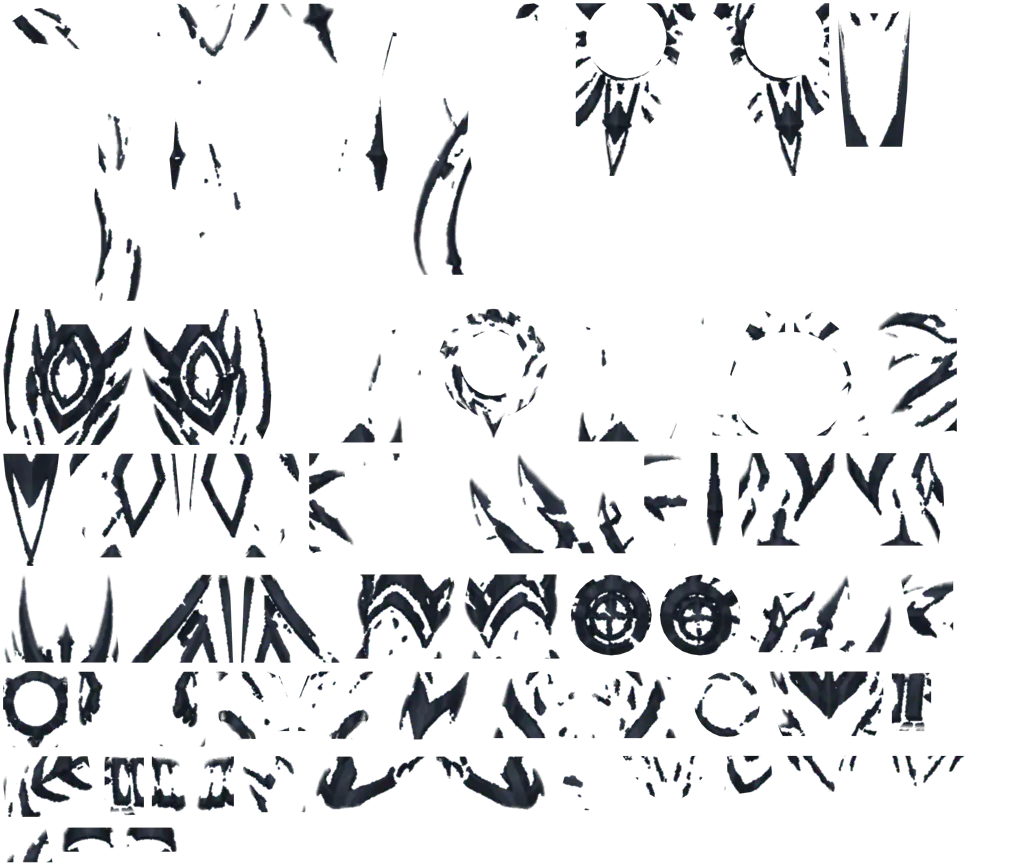
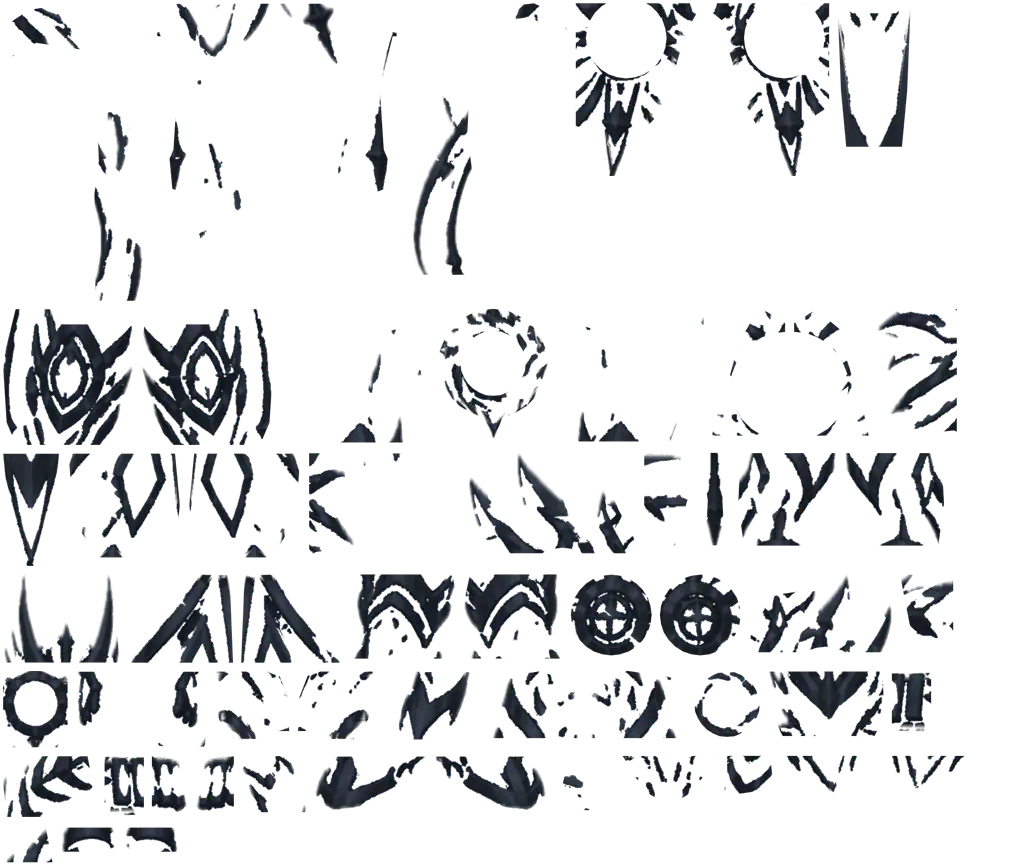
Rexonance: the bare body's own detail; no yellow rim before the gold forms; MAX / ULTRA cut like the figure (owner)
- The undersuit (the body before the armour) drops the hex mesh for a
  muscle-fibre grain that runs the way each muscle does (pecs to the
  armpit, deltoids, the arms, the abdomen's columns and bands, the thighs'
  diagonal, the calves), with a soft volume and fainter seams; its face is
  only its lights (the cyan and pink V).
- The raw gold mask takes every warm gold-toned pixel within 4 px of a trim
  and stays solid to its edge: a seated arm or leg no longer shows a thin
  yellow rim before its gold forms (crystals stay clear, pinned).
- MAX and ULTRA take the figure's own cut-out as their silhouette (no dark
  rim of the black ground), and a scroll at rest during a form change keeps
  no transient squares.

diff --git a/src/lib/rexonance-suit-gold.ts b/src/lib/rexonance-suit-gold.ts
@@ -1,102 +1,102 @@
 // Generated by scripts/build-rexonance-suit.mjs from
 // design/rexonance-suit/rexonance-full-20261010.jpg — do not edit by hand.
 
-/** rx17: the gold nanite cell, in delivery px (10067 cells in all). */
+/** rx17: the gold nanite cell, in delivery px (10520 cells in all). */
 export const REXONANCE_SUIT_GOLD_CELL = 4;
 /** Each plate's gold cells (by id; plates without gold are absent): the
  * REXONANCE_SUIT_GOLD_CELL px squares of its box (REXONANCE_SUIT_PIECES)
  * that its trims touch, row-major, LSB-first bitmask, base64. */
 export const REXONANCE_SUIT_GOLD_CELLS: Readonly<Record<string, string>> = {
   "helmet-crest":
[2 lines of base64/hex data omitted]
   "helmet-visor":
[1 lines of base64/hex data omitted]
-  "helmet-jaw": "RgAEnAcMAA8bADQGAGAsAIBZAASbBEAEAYABAwADBgAGBAAAAAAAAAAAAAA=",
-  "core-disc": "AACAfwC/AwAcMOBgAIcAHAIABAAYAGAAmAFwDuBxwIEnAfwD4A8ADAA=",
[1 lines of base64/hex data omitted]
+  "helmet-jaw": "RgAEnAcMAA8bADQGAGAsAIBdAASbBGAmAcABAwADBwAGDAAAAAAAAAAAAAA=",
+  "core-disc": "AACAfwC/A4AcMOBgAIcAHAMABAAYAGAAmAFwDuBxwIGnAfwD4B8ADAA=",
   "core-swirl":
[1 lines of base64/hex data omitted]
-  "belt-l2": "AIA//vEHOUAABgKQgQz+/e9/f3EAAA==",
-  "belt-l1": "APA+/+d//scf/Md//Ocf/3Ef9/Ef+IEZAAAA",
[1 lines of base64/hex data omitted]
-  "belt-r1": "AOB//ucf3sEdnuERnME9+IN/+Md//AAcAAA=",
-  "belt-r2": "APjBP/5gAxMYgAAGcIF//vMf/wADAAAA",
-  "tasset-pendant": "GDBgwIEBAw4ePHjw4MGDDx8+fHjw4IEDBwYMAAA=",
[2 lines of base64/hex data omitted]
+  "belt-l2": "AIA//vEHOcgABjKQgQz+/e9/f3EAAA==",
+  "belt-l1": "APA+/+d//scf/Md//Ocf//Ef//Ef+IEZAAAA",
[1 lines of base64/hex data omitted]
+  "belt-r1": "AOB//ud/3sEdnuER3ME9+IN/+Md//AAcAAA=",
+  "belt-r2": "APjBP/5hAxMYgAAmcMN//vM//wADAAAA",
+  "tasset-pendant": "GDBgwIEDAw4ePHjw4MGDDx8+fHjw4IEDBwYMAAA=",
[1 lines of base64/hex data omitted]
   "tasset-top":
[2 lines of base64/hex data omitted]
   "shoulder-disc-l":
[2 lines of base64/hex data omitted]
   "shoulder-upper-l":
[2 lines of base64/hex data omitted]
   "shoulder-outer-l":
[2 lines of base64/hex data omitted]
   "shoulder-lower-l":
[2 lines of base64/hex data omitted]
   "shoulder-disc-r":
[2 lines of base64/hex data omitted]
   "shoulder-upper-r":
[4 lines of base64/hex data omitted]
   "shoulder-lower-r":
[2 lines of base64/hex data omitted]
   "arm-upper-l":
[2 lines of base64/hex data omitted]
   "arm-bracer-l":
[1 lines of base64/hex data omitted]
-  "arm-cuff-l": "AAD8P/4//j8+OA4gHgAAAA==",
-  "arm-fist-l": "AAB8APAA8ANgD8AOABwAPwB+APwA+AHwAeABwAMAAQAAAAAAAAAAAAAAAAAA",
[1 lines of base64/hex data omitted]
+  "arm-cuff-l": "AAD8P/4//j8+OB4wPgAAAA==",
+  "arm-fist-l": "AAB8APAA8APgD8AegB8APwB+APwA+AHwAeABwAMAAQAAAAAAAAAAAAAAAAAA",
   "arm-upper-r":
[2 lines of base64/hex data omitted]
   "arm-bracer-r":
[1 lines of base64/hex data omitted]
-  "arm-cuff-r": "AAD4f+D/Af8HCD4I4ADAAwAA",
-  "arm-fist-r": "AAAA+AD4AHAB8ALgAcADgAcAPwB+APwA+AHwA4AHAAwAAAAAAAAAAAIBBAAA",
[1 lines of base64/hex data omitted]
+  "arm-cuff-r": "AAD4f+D/Af8HGD4I4ADAAwAA",
+  "arm-fist-r": "AAAA+AD4APgB8ALgAcADgAcAPwB+APwA+AHwA4AHAA4AAAAAAABAAIIBBAAA",
   "chest-pec-l":
-    "AAAAAAQAwAAAAAAEBOBDAD4GwAMAHAAAAAAAAAAAAAAAAABAAAAGACAAAAIAAAAAAAAAAAAAAAAAAAAAAAAAAAAAAMAGAMABADAAAAYgyACGAAAAAA==",
+    "AAAAAAQAwAAAAAAkBOBDAD4GwAMAHAAAAAAAAAAAAAAABABAAAAGACAAAAIAAAAAAAAAAAAAAAAAAAAAAAAAAAAAAMAGAMABADAAAAYgyAGGAAAAAA==",
   "chest-pec-r":
[6 lines of base64/hex data omitted]
   "thigh-top-l":
[2 lines of base64/hex data omitted]
   "thigh-plate-l":
[2 lines of base64/hex data omitted]
   "thigh-top-r":
[2 lines of base64/hex data omitted]
   "thigh-plate-r":
[2 lines of base64/hex data omitted]
   "knee-disc-l":
[1 lines of base64/hex data omitted]
-  "knee-point-l": "kCAZMGMzQAYzgA1jADtHAGAHAMAGAAAFAAACAAAAAAAAAAA=",
[1 lines of base64/hex data omitted]
+  "knee-point-l": "kDA5MGM7wAYzgA1jADtnAGAHAMAGAIAHAAACAAAAAAAAAAA=",
   "knee-disc-r":
[1 lines of base64/hex data omitted]
-  "knee-point-r": "3AEI+AMa4A4WgDkkAHJIAMABAAAHAAAcAABwAABAAAAAAAAAAAA=",
[2 lines of base64/hex data omitted]
+  "knee-point-r": "3AEN+AMa4A42gDkkAHJIAMABAAAHAAA8AABwAABAAAAAAAAAAAA=",
[1 lines of base64/hex data omitted]
   "boot-ankle-l":
[2 lines of base64/hex data omitted]
   "boot-shin-l":
[4 lines of base64/hex data omitted]
   "boot-ankle-r":
[2 lines of base64/hex data omitted]
   "boot-shin-r":
[1 lines of base64/hex data omitted]
-  "tail-0": "xIPxwAg4QA4YB8fz4R/4A3wAAAAA",
[1 lines of base64/hex data omitted]
-  "tail-1b": "AAAAAsAAOAAO4AF8AA/MA/sEAAA=",
-  "tail-2a": "AAAGgAFIwKf7M/4BPzAO3AN+AB+AD8APwE/hh+AHwAMAAAAAAAAAAAAA",
[1 lines of base64/hex data omitted]
-  "tail-3a": "AAAAAAAAAAAAAAAGAB4AfgDgAAAAAAMAAAAAAAAAQAA=",
-  "tail-3b": "AAIAOADggYAODjDwh4AfAHgAzAFgAIADABwAcADAAQQGEAAA",
[2 lines of base64/hex data omitted]
+  "tail-0": "xIPz4Ag4QB4YB8fz4T/4A3wAAAAA",
[1 lines of base64/hex data omitted]
+  "tail-1b": "AAAAAsAAOAAP4AN8AA/ME/sEAAA=",
+  "tail-2a": "AAAHgAFIwKf/M/4BPzAO3AN+AB+AH8CPwE/hh+AHwAMAAAAAAAAAAAAA",
[1 lines of base64/hex data omitted]
+  "tail-3a": "AAAAAAAAAAAAAAAHAB4AfgDwAAAAAAMAAAAAACAAQAA=",
+  "tail-3b": "AAIAOADggcAPDjLwh4AfAHwAzAFgAoADABwAcADAAQQOEAAA",
[1 lines of base64/hex data omitted]
   "tail-4b":
-    "AAAAwAAAMAAIAAAAAAAAAAAAAAAAAAAAAAAAAAAAAAAAAAAAAAAAAAAAAAAAAAAAAAAAAAAAAAAAAAAAAAAAAAAAAAAAAAAAAAAAAAA=",
+    "AAIAwAAAMAAIAAAAAAAAAAAAAAAAAAAAAAAAAAAAAAAAAAAAAAAAAAAAAAAAAAAAAAAAAAAAAAAAAAAAAAAAAAAAAAAAAAAAAAAAAAA=",
   "ribbon-upper-l":
[2 lines of base64/hex data omitted]
   "ribbon-lower-l":
[2 lines of base64/hex data omitted]
   "ribbon-upper-r":
[2 lines of base64/hex data omitted]
   "ribbon-lower-r":
[2 lines of base64/hex data omitted]
 };

diff --git a/src/lib/rexonance-overwrite.js b/src/lib/rexonance-overwrite.js
@@ -64,7 +64,7 @@ export function planOverwrite({ width, height, cell, origin, seed = 1, samples =
 /** Draws the change at `u` (0–1, the overwrite) and `v` (0–1, the extra
  * cells' generation; ignored without extra cells). `tone`: the new form's
  * light (CSS colour). */
-export function drawOverwrite(context, plan, from, to, u, v = 1, tone = "#8cf5e0") {
+export function drawOverwrite(context, plan, from, to, u, v = 1, tone = "#8cf5e0", calm = false) {
   const { cols, rows, cell, width, height, key, extra, flight } = plan;
   const hot = 0.08;
   const lead = 0.05;
@@ -88,6 +88,12 @@ export function drawOverwrite(context, plan, from, to, u, v = 1, tone = "#8cf5e0
     context.drawImage(to, 0, 0, width, height);
   }
   context.restore();
+  // `calm`: the change is held still (a scroll at rest): no transient
+  // squares stay standing on it.
+  if (calm) {
+    context.globalAlpha = 1;
+    return;
+  }
   // Hot squares on the cells flipping now; hairlines on the next ones.
   context.beginPath();
   for (let index = 0; index < key.length; index += 1) {

diff --git a/src/lib/rexonance-resonance.js b/src/lib/rexonance-resonance.js
@@ -1574,6 +1574,7 @@ export function mountRexonanceAssembly(runway, config, environment = window) {
             span(progress, [a, b - 0.005]),
             1,
             FORM_TONES.max,
+            calm,
           );
         } else {
           const quick = a + (b - a) * 0.3;
@@ -1586,6 +1587,7 @@ export function mountRexonanceAssembly(runway, config, environment = window) {
               span(progress, [a, quick]),
               1,
               FORM_TONES.max,
+              calm,
             );
           else
             drawOverwrite(
@@ -1596,6 +1598,7 @@ export function mountRexonanceAssembly(runway, config, environment = window) {
               span(progress, [quick, quick + (b - quick) * 0.62]),
               span(progress, [quick + (b - quick) * 0.42, b]),
               FORM_TONES.ultra,
+              calm,
             );
         }
       }

diff --git a/src/lib/rexonance-suit.ts b/src/lib/rexonance-suit.ts
@@ -1,7 +1,7 @@
 // Generated by scripts/build-rexonance-suit.mjs from
 // design/rexonance-suit/rexonance-full-20261010.jpg — do not edit by hand.
 // Figure coordinates are delivery pixels of the 571 x 1040 figure.
-// 6 files, 591306 bytes.
+// 6 files, 592070 bytes.
 
 export const REXONANCE_SUIT_SIZE = { width: 571, height: 1040 } as const;
 

diff --git a/src/lib/rexonance-overwrite.d.ts b/src/lib/rexonance-overwrite.d.ts
@@ -24,6 +24,7 @@ export function drawOverwrite(
   u: number,
   v?: number,
   tone?: string,
+  calm?: boolean,
 ): void;
 export function sampleCells(
   picture: CanvasImageSource,
